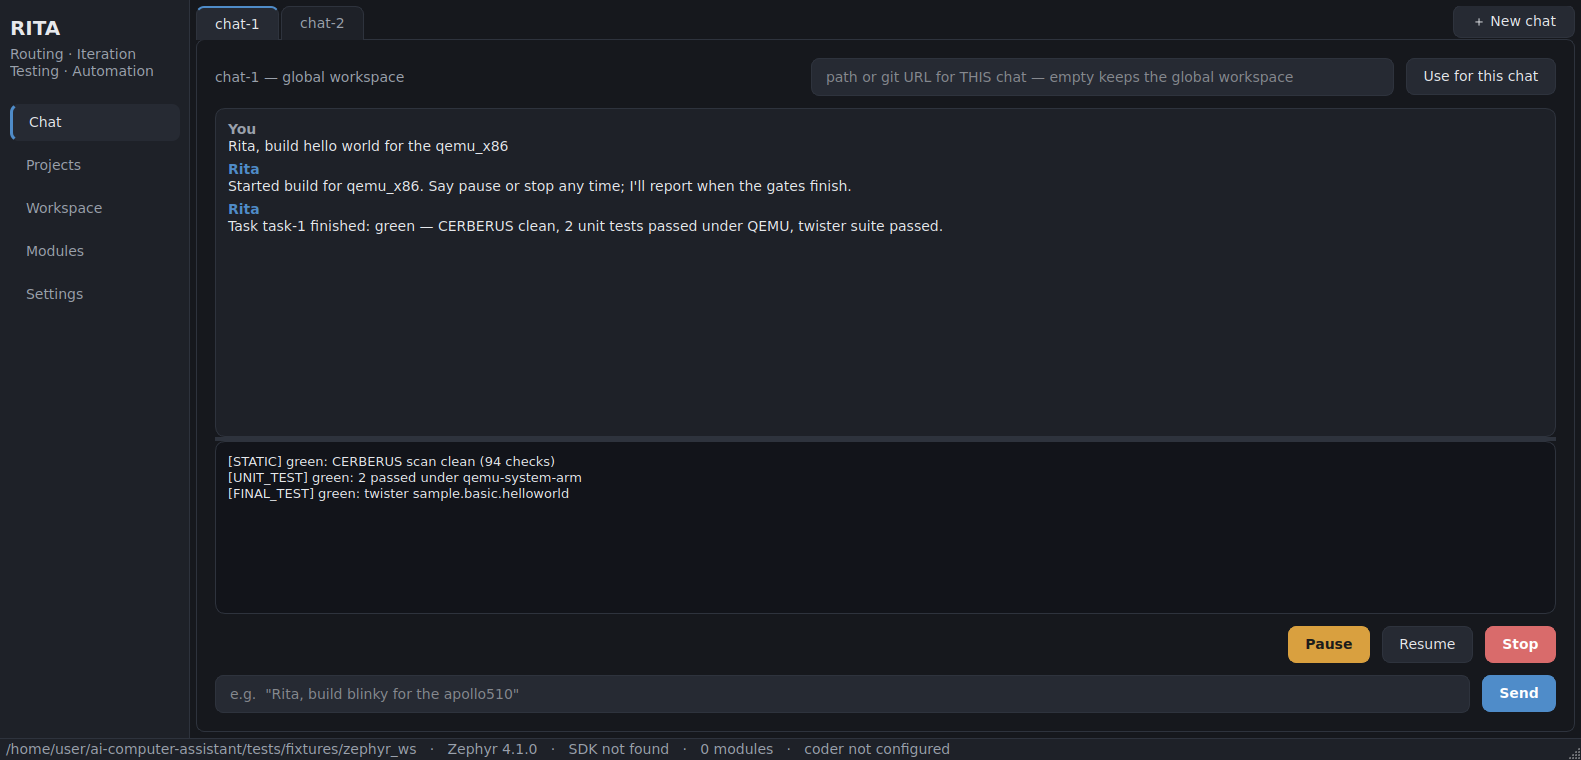
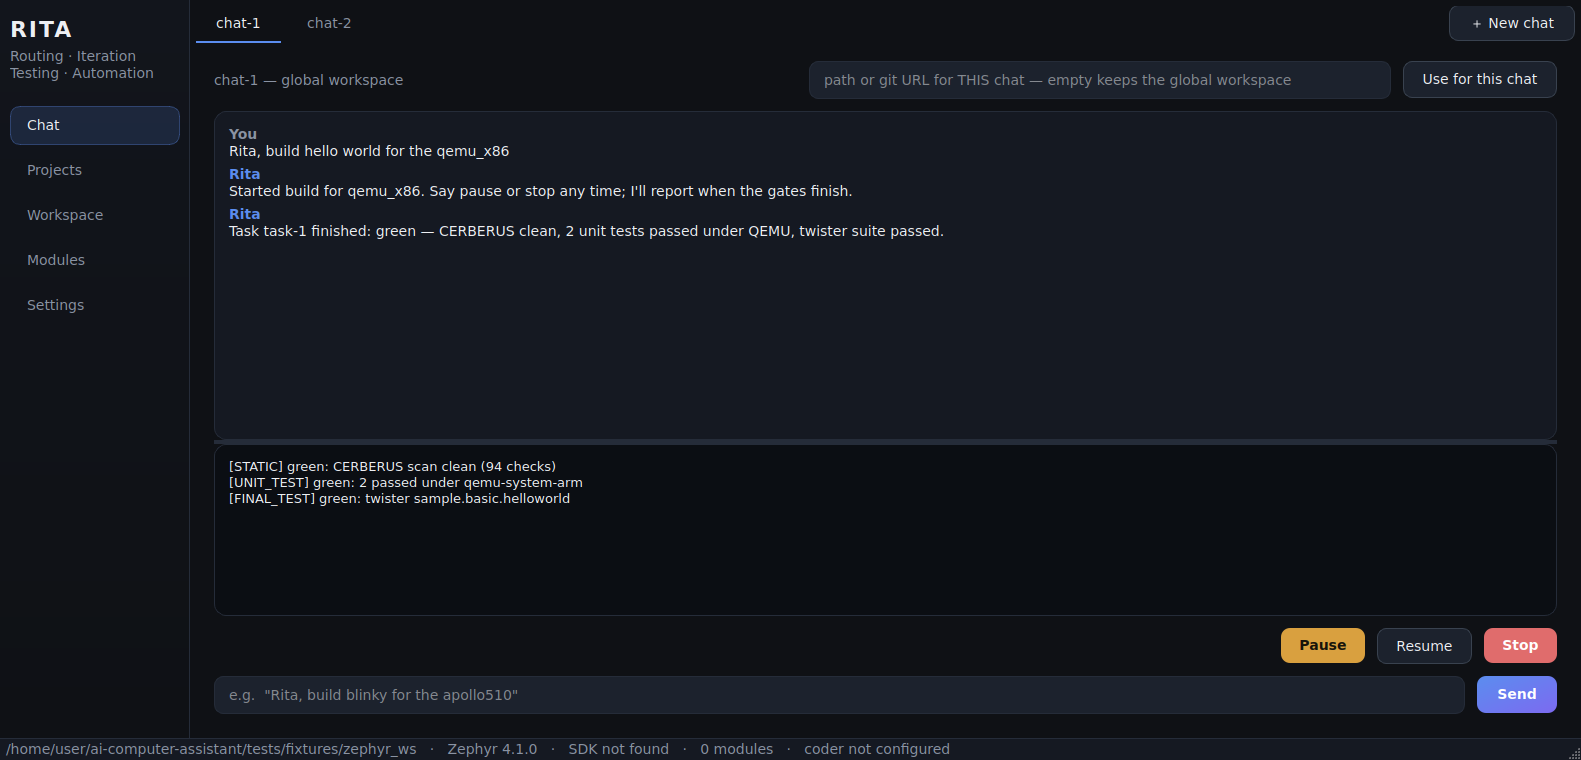
UI redesign: depth, gradient primary, pill nav, underline tabs (v0.27.0)
Full theme rework from tokens: deep layered background, buttons with
real depth (hover lift, pressed sink, honest disabled), a blue-violet
gradient reserved for the primary action, accent-tinted pill
navigation, underline-style chat tabs, input focus rings, restyled
combos/checkboxes/scrollbars/status bar. README screenshots
regenerated from the new theme via packaging/screenshots.py.

Suite: 494 passed, 7 skipped. Frozen-bundle smoke test passed against
a fresh local build.

diff --git a/src/rita/gui/theme.py b/src/rita/gui/theme.py
@@ -1,122 +1,187 @@
 """RITA's look: one modern dark theme, applied as QSS.
 
-Design intent: a clean native app — generous spacing, one accent color,
-soft radii, quiet chrome. Not a terminal, not a web page.
+Design intent: a current-generation tool, not a default-palette Qt
+form. Deep layered background, one electric accent (blue→violet
+gradient reserved for the primary action), buttons with real depth
+(hover lift, pressed sink), pill navigation, underline tabs, focus
+rings on inputs. Everything derives from the tokens below.
 """
 
 from __future__ import annotations
 
-ACCENT = "#4F8CC9"          # calm blue
-ACCENT_HOVER = "#63A0DD"
-BG = "#16181D"              # window
-BG_RAISED = "#1E2128"       # panels / cards
-BG_INPUT = "#262A33"
-BORDER = "#2E333D"
-TEXT = "#E6E8EC"
-TEXT_DIM = "#9AA1AC"
-GOOD = "#57B98A"
+# Palette tokens — every color in the app comes from here.
+ACCENT = "#5B8DEF"          # electric blue
+ACCENT_2 = "#7C6AF0"        # violet — gradient partner, never used alone
+ACCENT_HOVER = "#6E9BF4"
+ACCENT_SOFT = "rgba(91, 141, 239, 0.16)"   # tinted fills (nav, selection)
+BG = "#0F1115"              # window — near-black with a blue cast
+BG_RAISED = "#151922"       # panels / cards
+BG_INPUT = "#1C222D"        # inputs / buttons at rest
+BG_HOVER = "#242B38"        # anything under the pointer
+BG_PRESSED = "#0C0F14"      # pressed sink
+BORDER = "#252C39"
+BORDER_STRONG = "#39424F"
+TEXT = "#EDEFF3"
+TEXT_DIM = "#8A93A3"
+GOOD = "#4FC38A"
 WARN = "#D9A03F"
-BAD = "#D96B6B"
+BAD = "#E06C6C"
 MONO = "Cascadia Code, Consolas, 'JetBrains Mono', monospace"
+
+_PRIMARY_GRAD = (f"qlineargradient(x1:0, y1:0, x2:1, y2:1, "
+                 f"stop:0 {ACCENT}, stop:1 {ACCENT_2})")
+_PRIMARY_GRAD_HOVER = (f"qlineargradient(x1:0, y1:0, x2:1, y2:1, "
+                       f"stop:0 {ACCENT_HOVER}, stop:1 #8D7BF6)")
+_PRIMARY_GRAD_PRESSED = (f"qlineargradient(x1:0, y1:0, x2:1, y2:1, "
+                         f"stop:0 #4A76CC, stop:1 #6656CE)")
 
 QSS = f"""
 * {{
-    font-family: 'Segoe UI', 'SF Pro Text', 'Cantarell', sans-serif;
+    font-family: 'Segoe UI Variable', 'Segoe UI', 'SF Pro Text',
+                 'Cantarell', sans-serif;
     font-size: 14px;
     color: {TEXT};
 }}
 QMainWindow, QDialog {{ background: {BG}; }}
+
+/* ---- sidebar: brand + pill navigation --------------------------------- */
 QWidget#sidebar {{
-    background: {BG_RAISED};
+    background: qlineargradient(x1:0, y1:0, x2:0, y2:1,
+                stop:0 #12151C, stop:1 {BG});
     border-right: 1px solid {BORDER};
 }}
-QPushButton#navButton {{
-    background: transparent; border: none; border-radius: 8px;
-    padding: 10px 16px; text-align: left; color: {TEXT_DIM};
+QLabel#title {{
+    font-size: 22px; font-weight: 700; letter-spacing: 2px;
+    color: {TEXT};
 }}
-QPushButton#navButton:hover {{ background: {BG_INPUT}; color: {TEXT}; }}
-QPushButton#navButton:checked {{
-    background: {BG_INPUT}; color: {TEXT};
-    border-left: 3px solid {ACCENT};
-}}
-QLabel#title {{ font-size: 20px; font-weight: 600; }}
 QLabel#dim {{ color: {TEXT_DIM}; }}
+QPushButton#navButton {{
+    background: transparent; border: 1px solid transparent;
+    border-radius: 10px; padding: 10px 16px; text-align: left;
+    color: {TEXT_DIM}; font-weight: 500;
+}}
+QPushButton#navButton:hover {{ background: {BG_HOVER}; color: {TEXT}; }}
+QPushButton#navButton:checked {{
+    background: {ACCENT_SOFT}; color: {TEXT};
+    border: 1px solid rgba(91, 141, 239, 0.35);
+}}
+
+/* ---- surfaces ---------------------------------------------------------- */
 QFrame#card {{
-    background: {BG_RAISED}; border: 1px solid {BORDER}; border-radius: 10px;
+    background: {BG_RAISED}; border: 1px solid {BORDER};
+    border-radius: 12px;
 }}
-QLineEdit, QSpinBox {{
-    background: {BG_INPUT}; border: 1px solid {BORDER}; border-radius: 8px;
-    padding: 9px 12px; selection-background-color: {ACCENT};
+QTextEdit, QPlainTextEdit, QListWidget {{
+    background: {BG_RAISED}; border: 1px solid {BORDER};
+    border-radius: 12px; padding: 10px;
+    selection-background-color: {ACCENT};
 }}
-QLineEdit:focus, QSpinBox:focus {{ border: 1px solid {ACCENT}; }}
+QPlainTextEdit#screenPane {{
+    font-family: {MONO}; font-size: 13px; background: #0B0E13;
+    border: 1px solid {BORDER};
+}}
+
+/* ---- inputs: focus ring ------------------------------------------------ */
+QLineEdit, QSpinBox, QComboBox {{
+    background: {BG_INPUT}; border: 1px solid {BORDER};
+    border-radius: 9px; padding: 9px 12px;
+    selection-background-color: {ACCENT};
+}}
+QLineEdit:hover, QSpinBox:hover, QComboBox:hover {{
+    border-color: {BORDER_STRONG};
+}}
+QLineEdit:focus, QSpinBox:focus, QComboBox:focus {{
+    border: 1px solid {ACCENT}; background: #202734;
+}}
+QComboBox::drop-down {{ border: none; width: 26px; }}
+QComboBox QAbstractItemView {{
+    background: {BG_RAISED}; border: 1px solid {BORDER_STRONG};
+    border-radius: 8px; selection-background-color: {ACCENT_SOFT};
+    selection-color: {TEXT}; outline: none;
+}}
+
+/* ---- buttons: rest / hover lift / pressed sink ------------------------- */
 QPushButton {{
-    background: {BG_INPUT}; border: 1px solid {BORDER}; border-radius: 8px;
-    padding: 9px 16px;
+    background: {BG_INPUT}; border: 1px solid {BORDER_STRONG};
+    border-radius: 9px; padding: 9px 18px; font-weight: 500;
+    min-height: 16px;
 }}
-QPushButton:hover {{ background: #2E3440; border-color: {ACCENT}; }}
+QPushButton:hover {{
+    background: {BG_HOVER}; border-color: {ACCENT};
+    color: white;
+}}
 QPushButton:pressed {{
-    background: #101319; border-color: {ACCENT};
+    background: {BG_PRESSED}; border-color: {ACCENT};
     padding-top: 11px; padding-bottom: 7px;
 }}
-QPushButton#primary {{
-    background: {ACCENT}; border: 1px solid {ACCENT}; color: white;
-    font-weight: 600;
-}}
-QPushButton#primary:hover {{ background: {ACCENT_HOVER}; }}
-QPushButton#primary:pressed {{ background: #3D74AC; }}
-QPushButton#pause {{ background: {WARN}; border: 1px solid {WARN};
-    color: #1b1b1b; font-weight: 600; }}
-QPushButton#pause:pressed {{ background: #B58432; }}
-QPushButton#stop {{ background: {BAD}; border: 1px solid {BAD};
-    color: white; font-weight: 600; }}
-QPushButton#stop:pressed {{ background: #B85555; }}
 QPushButton:disabled {{
     color: {TEXT_DIM}; background: {BG_RAISED}; border-color: {BORDER};
 }}
-QTabWidget::pane {{
-    border: 1px solid {BORDER}; border-radius: 8px; background: {BG};
-    top: -1px;
+QPushButton#primary {{
+    background: {_PRIMARY_GRAD}; border: none; color: white;
+    font-weight: 600; padding: 10px 20px;
 }}
+QPushButton#primary:hover {{ background: {_PRIMARY_GRAD_HOVER}; }}
+QPushButton#primary:pressed {{
+    background: {_PRIMARY_GRAD_PRESSED};
+    padding-top: 12px; padding-bottom: 8px;
+}}
+QPushButton#pause {{
+    background: {WARN}; border: none; color: #17130A; font-weight: 600;
+}}
+QPushButton#pause:hover {{ background: #E3AF54; }}
+QPushButton#pause:pressed {{ background: #B58432; }}
+QPushButton#stop {{
+    background: {BAD}; border: none; color: white; font-weight: 600;
+}}
+QPushButton#stop:hover {{ background: #E88080; }}
+QPushButton#stop:pressed {{ background: #BC5252; }}
+QToolButton {{
+    background: {BG_INPUT}; border: 1px solid {BORDER_STRONG};
+    border-radius: 9px; padding: 7px 14px; color: {TEXT};
+    font-weight: 500;
+}}
+QToolButton:hover {{ background: {BG_HOVER}; border-color: {ACCENT}; }}
+QToolButton:pressed {{ background: {BG_PRESSED}; }}
+
+/* ---- chat tabs: underline style, no boxes ------------------------------ */
+QTabWidget::pane {{ border: none; background: transparent; }}
+QTabBar {{ background: transparent; }}
 QTabBar::tab {{
-    background: {BG_RAISED}; color: {TEXT_DIM};
-    border: 1px solid {BORDER}; border-bottom: none;
-    border-top-left-radius: 8px; border-top-right-radius: 8px;
-    padding: 8px 18px; margin-right: 2px;
+    background: transparent; color: {TEXT_DIM};
+    border: none; border-bottom: 2px solid transparent;
+    padding: 9px 20px; margin-right: 6px; font-weight: 500;
 }}
 QTabBar::tab:hover {{ color: {TEXT}; }}
 QTabBar::tab:selected {{
-    background: {BG_INPUT}; color: {TEXT};
-    border-top: 2px solid {ACCENT};
+    color: {TEXT}; border-bottom: 2px solid {ACCENT};
 }}
-QToolButton {{
-    background: {BG_INPUT}; border: 1px solid {BORDER}; border-radius: 8px;
-    padding: 6px 12px; color: {TEXT};
+
+/* ---- chrome ------------------------------------------------------------ */
+QStatusBar {{
+    background: {BG_RAISED}; border-top: 1px solid {BORDER};
+    color: {TEXT_DIM};
 }}
-QToolButton:hover {{ background: #2E3440; border-color: {ACCENT}; }}
-QToolButton:pressed {{ background: #101319; }}
-QComboBox {{
-    background: {BG_INPUT}; border: 1px solid {BORDER}; border-radius: 8px;
-    padding: 8px 12px;
+QScrollBar:vertical {{
+    background: transparent; width: 8px; margin: 2px;
 }}
-QComboBox:hover {{ border-color: {ACCENT}; }}
-QComboBox QAbstractItemView {{
-    background: {BG_RAISED}; border: 1px solid {BORDER};
-    selection-background-color: {ACCENT};
+QScrollBar::handle:vertical {{
+    background: {BORDER_STRONG}; border-radius: 4px; min-height: 30px;
 }}
-QTextEdit, QPlainTextEdit, QListWidget {{
-    background: {BG_RAISED}; border: 1px solid {BORDER}; border-radius: 10px;
-    padding: 8px;
-}}
-QPlainTextEdit#screenPane {{
-    font-family: {MONO}; font-size: 13px; background: #12141A;
-}}
-QStatusBar {{ background: {BG_RAISED}; border-top: 1px solid {BORDER}; color: {TEXT_DIM}; }}
-QScrollBar:vertical {{ background: transparent; width: 10px; }}
-QScrollBar::handle:vertical {{ background: {BORDER}; border-radius: 5px; min-height: 30px; }}
 QScrollBar::handle:vertical:hover {{ background: {ACCENT}; }}
 QScrollBar::add-line, QScrollBar::sub-line {{ height: 0; }}
+QScrollBar:horizontal {{ background: transparent; height: 8px; margin: 2px; }}
+QScrollBar::handle:horizontal {{
+    background: {BORDER_STRONG}; border-radius: 4px; min-width: 30px;
+}}
 QSplitter::handle {{ background: {BORDER}; }}
-QCheckBox::indicator {{ width: 18px; height: 18px; border-radius: 5px;
-    border: 1px solid {BORDER}; background: {BG_INPUT}; }}
-QCheckBox::indicator:checked {{ background: {ACCENT}; border-color: {ACCENT}; }}
+QCheckBox {{ spacing: 9px; }}
+QCheckBox::indicator {{
+    width: 18px; height: 18px; border-radius: 6px;
+    border: 1px solid {BORDER_STRONG}; background: {BG_INPUT};
+}}
+QCheckBox::indicator:hover {{ border-color: {ACCENT}; }}
+QCheckBox::indicator:checked {{
+    background: {_PRIMARY_GRAD}; border-color: {ACCENT};
+}}
 """

diff --git a/src/rita/__init__.py b/src/rita/__init__.py
@@ -9,4 +9,4 @@ agent loop is testable anywhere. Real perception/action/LLM backends are
 optional plugins/extras you enable per machine.
 """
 
-__version__ = "0.26.0"
+__version__ = "0.27.0"

diff --git a/CHANGELOG.md b/CHANGELOG.md
@@ -3,6 +3,27 @@
 All notable changes to this project are documented here. The format follows
 [Keep a Changelog](https://keepachangelog.com/); versions follow semver.
 
+## [0.27.0] - 2026-08-29
+
+### Changed — the UI grows up
+The owner's verdict on the old look: functional, not next-gen. Full
+theme redesign, all tokens (`src/rita/gui/theme.py`):
+
+- Deep layered background with a blue cast; cards and panes on raised
+  surfaces with 12px radii.
+- **Buttons with real depth**: hover lifts (lighter fill + accent
+  border), pressed sinks (darker fill + 2px offset), disabled reads
+  disabled. The primary action wears a blue→violet gradient; Pause and
+  Stop keep their semantic colors with proper hover/pressed states.
+- **Pill navigation** in the sidebar (accent-tinted active item),
+  letter-spaced brand.
+- **Underline chat tabs** — no boxes, a 2px accent underline marks the
+  active chat.
+- Inputs get focus rings; combo popups, checkboxes, scrollbars, and
+  the status bar all restyled to match.
+- README screenshots regenerated from the new theme
+  (`packaging/screenshots.py`).
+
 ## [0.26.0] - 2026-08-29
 
 ### Added — chat tabs: several chats open at once, each with its own workspace
